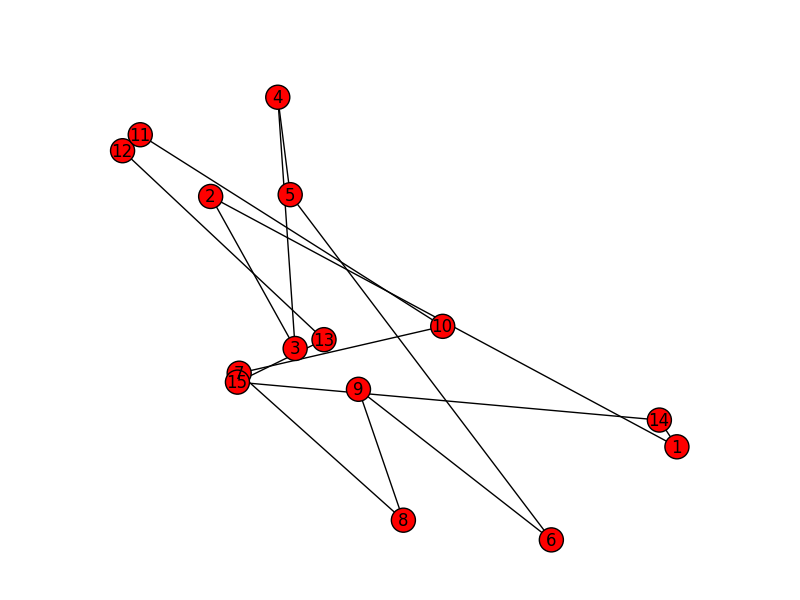
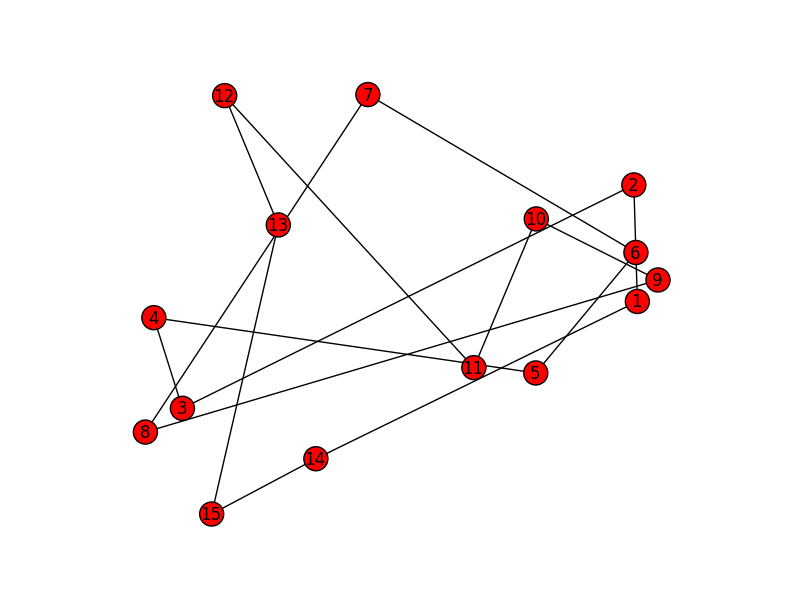
agregando funcion para obtener el costo total del grafo de salida

diff --git a/tsp_vecino_proximo.py b/tsp_vecino_proximo.py
@@ -137,7 +137,45 @@ def llenar_grafo(grafo,n_nodos,archivo):
    lista_nodos.append(matriz[i][0])
  grafo.add_nodes_from(lista_nodos,visitado=0)  
  return matriz       
+def busqueda_local(grafo):
+ print("busqueda local")
 
+
+def costo(grafo):
+ print("------------------------------------costo")  
+ pesos = nx.get_edge_attributes(grafo,'weight')
+ dt = 0
+ for i in pesos:
+  dt = dt + pesos[i]
+ return dt
+ 
+   
+def grafo_salida(grafo,ruta,total_nodos):
+ g2 = nx.Graph()
+ g2.add_nodes_from(ruta)
+
+ for i in range(total_nodos):
+ 
+  if i == (len(ruta)-1):
+     g2.add_edge(ruta[i],ruta[0])
+     break
+  g2.add_edge(ruta[i],ruta[i+1])      
+ 
+ 
+ #agregando los pesos 
+ for i in g2.edges():
+  g2[i[0]][i[1]]['weight'] = g[i[0]][i[1]]['weight']
+ 
+ nx.draw_random(g2)
+ plt.savefig("grafo2.png")
+ plt.show()
+ return g2
+ 
+ 
+
+
+
+#######  
 g = nx.Graph()
 total = 15
 nom_archivo = "g2.txt"
@@ -168,17 +206,9 @@ plt.show()
 
 
 """imprimiendo el nuevo arreglo"""
-
-g2 = nx.Graph()
-g2.add_nodes_from(visitados)
-
-for i in range(total):
- 
- if i == (len(visitados)-1):
-    g2.add_edge(visitados[i],visitados[0])
-    break
- g2.add_edge(visitados[i],visitados[i+1])      
-nx.draw_random(g2)
-plt.savefig("grafo2.png")
-plt.show()    
+g2=grafo_salida(g,visitados,total)
+print(g2.edges())
+costo = costo(g2)
+print(costo)
+    
  
